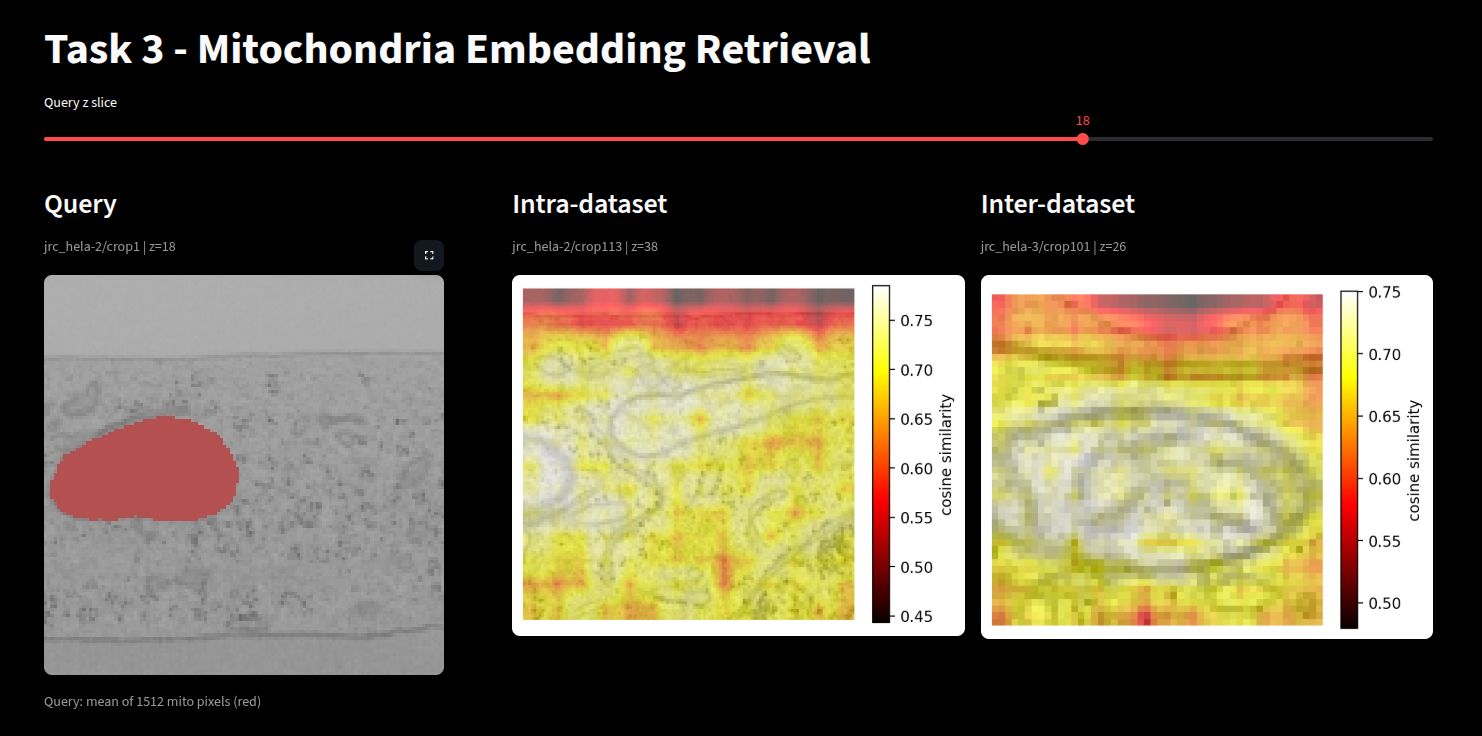
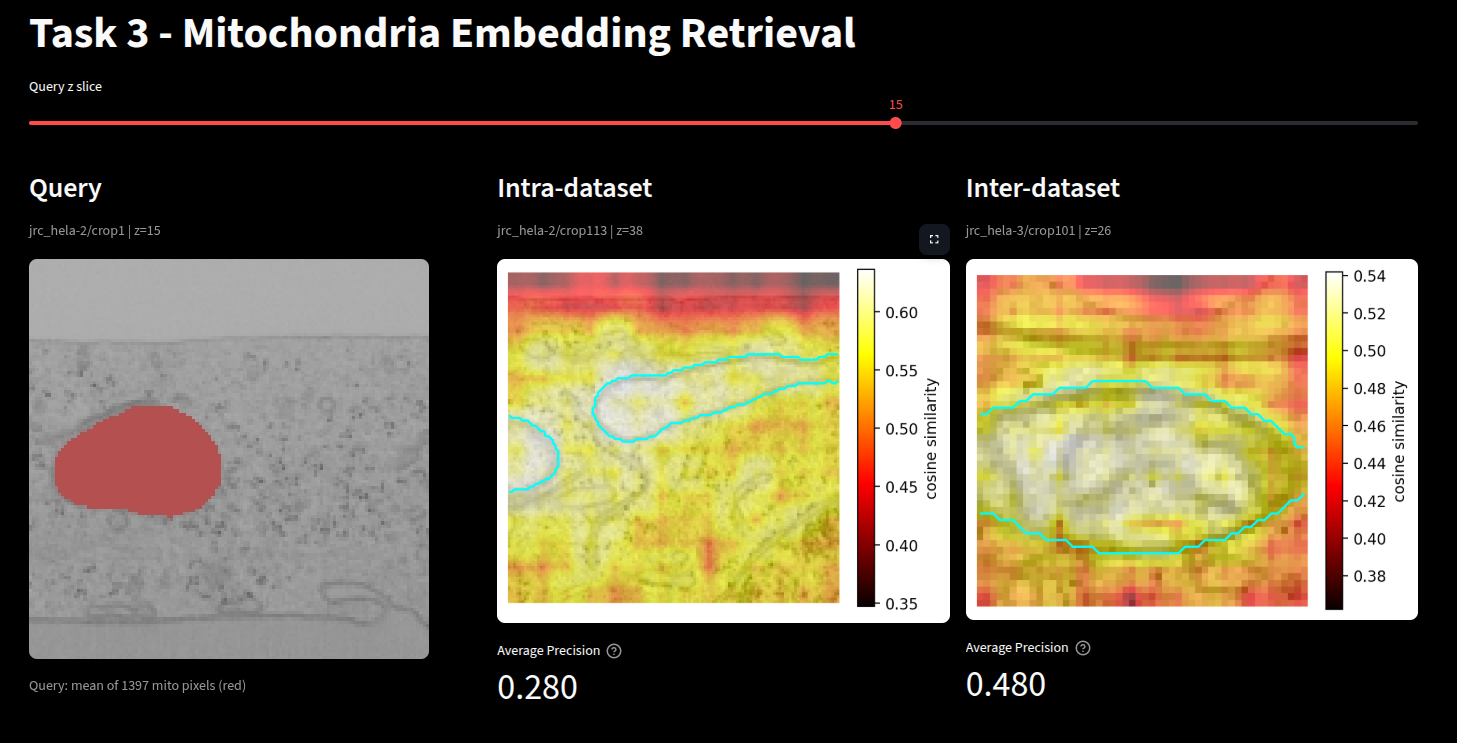
added average precision

diff --git a/task2/dashboard.py b/task2/dashboard.py
@@ -4,6 +4,7 @@ import matplotlib.pyplot as plt
 
 from PIL import Image
 from pathlib import Path
+from sklearn.metrics import average_precision_score
 from utils.config import cfg
 from utils.retrieval import (
     load_crop,
@@ -61,9 +62,13 @@ def cached_load_crop(dataset: str, crop: str, projected: bool = False) -> dict:
 
 
 def overlay_similarity(
-    em_slice: np.ndarray, sim_map: np.ndarray, size: int = 400
+    em_slice: np.ndarray,
+    sim_map: np.ndarray,
+    size: int = 400,
+    mito_mask: np.ndarray | None = None,
 ) -> plt.Figure:
-    """Render EM slice with cosine similarity heat map overlaid."""
+    """Render EM slice with cosine similarity heat map overlaid.
+    Optionally draws GT mito mask contour in cyan."""
     dpi = 100
     fig, ax = plt.subplots(figsize=(size / dpi, size / dpi), dpi=dpi)
     ax.imshow(em_slice, cmap="gray", interpolation="nearest")
@@ -76,6 +81,8 @@ def overlay_similarity(
         fraction=0.046,
         label="cosine similarity",
     )
+    if mito_mask is not None and mito_mask.any():
+        ax.contour(mito_mask, levels=[0.5], colors="cyan", linewidths=1.5)
     ax.axis("off")
     plt.tight_layout(pad=0)
     return fig
@@ -185,10 +192,17 @@ with col2:
             sim_intra = compute_similarity(query_emb, intra_data["embeddings"])
             sim_map_intra = build_similarity_map(sim_intra, Z_INTRA)
             fig = overlay_similarity(
-                intra_data["em"][Z_INTRA], sim_map_intra, DISPLAY_SIZE
+                intra_data["em"][Z_INTRA],
+                sim_map_intra,
+                DISPLAY_SIZE,
+                mito_mask=intra_data["mito_mask"][Z_INTRA],
             )
             st.pyplot(fig)
             plt.close()
+            ap_intra = average_precision_score(
+                intra_data["mito_mask"].flatten(), sim_intra.flatten()
+            )
+            st.metric("Average Precision", f"{ap_intra:.3f}", help="Cyan contour = GT mito mask")
         else:
             st.warning("No mito pixels in query slice")
     else:
@@ -202,10 +216,17 @@ with col3:
             sim_inter = compute_similarity(query_emb, inter_data["embeddings"])
             sim_map_inter = build_similarity_map(sim_inter, Z_INTER)
             fig = overlay_similarity(
-                inter_data["em"][Z_INTER], sim_map_inter, DISPLAY_SIZE
+                inter_data["em"][Z_INTER],
+                sim_map_inter,
+                DISPLAY_SIZE,
+                mito_mask=inter_data["mito_mask"][Z_INTER],
             )
             st.pyplot(fig)
             plt.close()
+            ap_inter = average_precision_score(
+                inter_data["mito_mask"].flatten(), sim_inter.flatten()
+            )
+            st.metric("Average Precision", f"{ap_inter:.3f}", help="Cyan contour = GT mito mask")
         else:
             st.warning("No mito pixels in query slice")
     else:

diff --git a/task2/README.md b/task2/README.md
@@ -107,7 +107,7 @@ The same mean mito query embedding is compared against embeddings from a crop in
 
 Cross-dataset similarity scores show slightly less contrast than intra-dataset due to minor differences in imaging conditions, but mito regions in the target still score visibly higher than background, confirming the embeddings capture organelle-level semantics without any domain-specific training.
 
-Query mitochondrion with red mask (left), cosine similarity heat map on same-dataset crop (centre) and cross-dataset crop (right).
+Query mitochondrion with red mask (left), cosine similarity heat map on same-dataset crop (centre) and cross-dataset crop (right). Cyan contour = ground-truth mito mask boundary. Average Precision (AP) is shown below each target — it measures how well the similarity ranking recovers mito pixels: pixels are ranked by cosine similarity, and AP is the area under the precision-recall curve against the binary mito mask. AP = 1.0 means all mito pixels ranked above all background pixels.
 
 ![Task 3 intra and inter dataset retrieval](screenshots/task3_intra_inter_embeddings.png)
 
@@ -140,7 +140,7 @@ Train a linear projection head (1024 -> 256) plus a binary segmentation head (25
 
 DINOv3's self-supervised pretraining produces embeddings that already separate visually distinct regions. Mitochondria have a consistent appearance in EM that differs from surrounding structures, so a linear probe can learn to separate them with very few trainable parameters and minimal risk of overfitting.
 
-Cosine similarity retrieval using projected 256-dim embeddings from the trained linear probe (toggle "Use projected embeddings" in the dashboard sidebar).
+Cosine similarity retrieval using projected 256-dim embeddings from the trained linear probe (toggle "Use projected embeddings" in the dashboard sidebar). Cyan contour = ground-truth mito mask boundary. AP scores show a marked improvement over raw DINOv3 embeddings — the linear projection learns to amplify mito-specific directions in embedding space, pushing mito pixels to the top of the similarity ranking.
 
 ![Task 4 linear probe retrieval](screenshots/task4_linear_probe.png)
 
